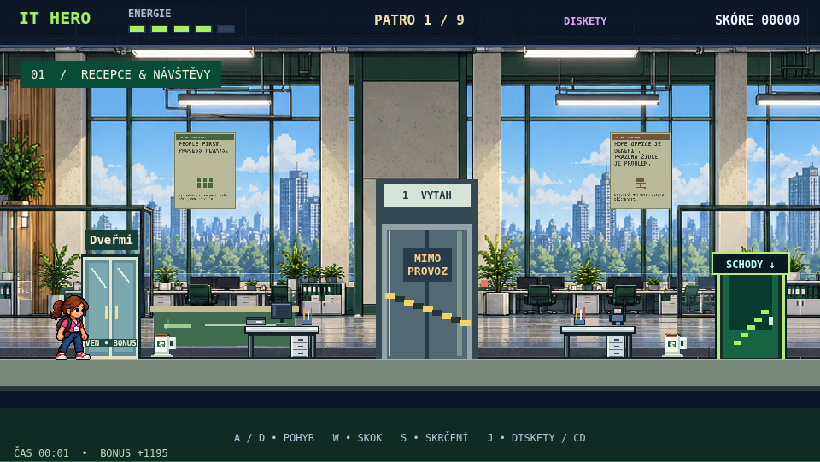
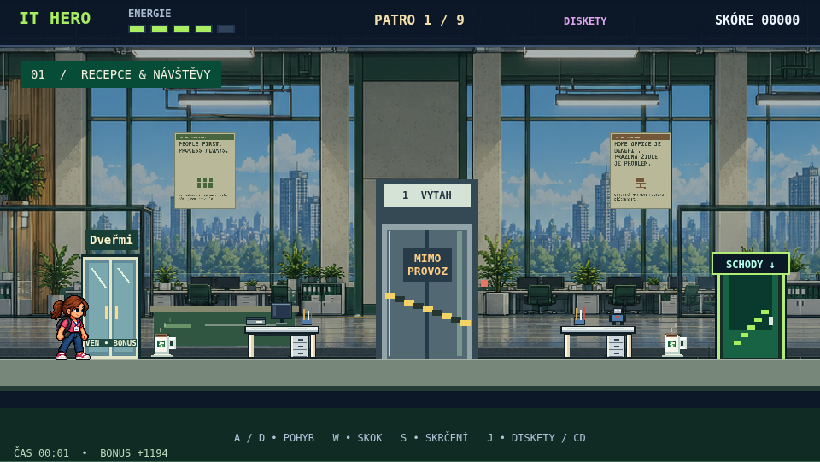
Apply approved desk variant C with cream legs and subdued office backgrounds

diff --git a/index.html b/index.html
@@ -5,39 +5,39 @@
   <meta name="viewport" content="width=device-width, initial-scale=1, viewport-fit=cover">
   <meta name="theme-color" content="#111a2a">
   <title>IT HERO | Save the world — but first, coffee</title>
-  <link rel="stylesheet" href="style.css?v=0.26.6">
+  <link rel="stylesheet" href="style.css?v=0.26.7">
   <script defer src="vendor/phaser.min.js"></script>
-  <script defer src="character-dialogue.js?v=0.26.6"></script>
-  <script defer src="dialogue-runtime.js?v=0.26.6"></script>
-  <script defer src="posters.js?v=0.26.6"></script>
-  <script defer src="item-textures.js?v=0.26.6"></script>
-  <script defer src="trio-attacks.js?v=0.26.6"></script>
-  <script defer src="player-character.js?v=0.26.6"></script>
-  <script defer src="appearance-mode.js?v=0.26.6"></script>
-  <script defer src="character-motion.js?v=0.26.6"></script>
-  <script defer src="enemy-catalog.js?v=0.26.6"></script>
-  <script defer src="dbpm.js?v=0.26.6"></script>
-  <script defer src="sap-integrator.js?v=0.26.6"></script>
-  <script defer src="it-colleague.js?v=0.26.6"></script>
-  <script defer src="gen-z-blockers.js?v=0.26.6"></script>
-  <script defer src="old-badger.js?v=0.26.6"></script>
-  <script defer src="touch-controls.js?v=0.26.6"></script>
-  <script defer src="difficulty.js?v=0.26.6"></script>
-  <script defer src="gameplay.js?v=0.26.6"></script>
+  <script defer src="character-dialogue.js?v=0.26.7"></script>
+  <script defer src="dialogue-runtime.js?v=0.26.7"></script>
+  <script defer src="posters.js?v=0.26.7"></script>
+  <script defer src="item-textures.js?v=0.26.7"></script>
+  <script defer src="trio-attacks.js?v=0.26.7"></script>
+  <script defer src="player-character.js?v=0.26.7"></script>
+  <script defer src="appearance-mode.js?v=0.26.7"></script>
+  <script defer src="character-motion.js?v=0.26.7"></script>
+  <script defer src="enemy-catalog.js?v=0.26.7"></script>
+  <script defer src="dbpm.js?v=0.26.7"></script>
+  <script defer src="sap-integrator.js?v=0.26.7"></script>
+  <script defer src="it-colleague.js?v=0.26.7"></script>
+  <script defer src="gen-z-blockers.js?v=0.26.7"></script>
+  <script defer src="old-badger.js?v=0.26.7"></script>
+  <script defer src="touch-controls.js?v=0.26.7"></script>
+  <script defer src="difficulty.js?v=0.26.7"></script>
+  <script defer src="gameplay.js?v=0.26.7"></script>
   <script defer src="community-config.js?v=cloud-9e7cbf2f4eb1"></script>
-  <script defer src="dialogue-community.js?v=0.26.6"></script>
-  <script defer src="play-stats.js?v=0.26.6"></script>
-  <script defer src="avatars.js?v=0.26.6"></script>
-  <script defer src="founders.js?v=0.26.6"></script>
-  <script defer src="menu-guests.js?v=0.26.6"></script>
-  <script defer src="score-table.js?v=0.26.6"></script>
-  <script defer src="ending-scene.js?v=0.26.6"></script>
-  <script defer src="secret-console.js?v=0.26.6"></script>
-  <script defer src="final-manager.js?v=0.26.6"></script>
-  <script defer src="lobby.js?v=0.26.6"></script>
-  <script defer src="outdoor-bonus.js?v=0.26.6"></script>
-  <script defer src="office-desks.js?v=0.26.6"></script>
-  <script defer src="game.js?v=0.26.6"></script>
+  <script defer src="dialogue-community.js?v=0.26.7"></script>
+  <script defer src="play-stats.js?v=0.26.7"></script>
+  <script defer src="avatars.js?v=0.26.7"></script>
+  <script defer src="founders.js?v=0.26.7"></script>
+  <script defer src="menu-guests.js?v=0.26.7"></script>
+  <script defer src="score-table.js?v=0.26.7"></script>
+  <script defer src="ending-scene.js?v=0.26.7"></script>
+  <script defer src="secret-console.js?v=0.26.7"></script>
+  <script defer src="final-manager.js?v=0.26.7"></script>
+  <script defer src="lobby.js?v=0.26.7"></script>
+  <script defer src="outdoor-bonus.js?v=0.26.7"></script>
+  <script defer src="office-desks.js?v=0.26.7"></script>
+  <script defer src="game.js?v=0.26.7"></script>
   <link rel="icon" type="image/png" sizes="32x32" href="assets/icons/favicon-32.png?v=1">
   <link rel="icon" href="favicon.ico?v=1" sizes="16x16 32x32 48x48">
   <link rel="apple-touch-icon" sizes="180x180" href="assets/icons/apple-touch-icon.png?v=1">
@@ -50,7 +50,7 @@
         <span class="eyebrow">PTG PIXEL OFFICE ARCADE</span>
         <h1>IT<span>HERO</span><small> / Save the world — but first, coffee</small></h1>
       </div>
-      <span class="version">BUILD 0.26.6</span>
+      <span class="version">BUILD 0.26.7</span>
     </header>
     <fieldset id="difficulty-choice" class="player-choice difficulty-choice"><legend>Obtížnost</legend><label><input type="radio" name="difficulty" value="normal" checked><span><strong>NORMAL</strong></span></label><label><input type="radio" name="difficulty" value="easy"><span><strong>EASY <small>(prokikoti)</small></strong></span></label></fieldset>
     <fieldset id="player-choice" class="player-choice">

diff --git a/office-desks.js b/office-desks.js
@@ -1,9 +1,11 @@
 /* Side-view furniture. Texture y=0 is the exact solid landing surface. */
 (()=>{'use strict';
  const palettes={
-  wood:{top:'#f5d49a',edge:'#c18a50',grain:'#e2b676',drawer:'#b9c5ca'},
+  wood:{top:'#ffdda0',edge:'#d99a54',grain:'#e2b676',drawer:'#ddd2b5'},
   modern:{top:'#edf2ed',edge:'#abbcc6',grain:'#d2dfdf',drawer:'#d0d9de'}
  };
+ const structure={metal:'#e4d6b6',highlight:'#fff7df',legWidth:5};
+ const background={color:0x142c29,alpha:.36,depth:-8.5};
  const items=['monitor','laptop','closed-laptop','keyboard','mouse','mug','papers','files','binders','pens','phone','mobile','lamp','plant','cactus','apple','banana','water','lunch','car','dinosaur','robot','hero-figure','controller','spaceship'];
  const themes=[
   {wood:.15,favorites:['monitor','phone','plant','pens']},
@@ -48,14 +50,14 @@
   "office-item-spaceship": "assets/office-desks/office-item-spaceship.png",
   "office-item-water": "assets/office-desks/office-item-water.png"
 };
- function preload(scene){for(const [key,url] of Object.entries(textureSources))scene.load.image(key,url);}
+ function preload(scene){for(const [key,url] of Object.entries(textureSources))scene.load.image(key,url+'?v=0.26.7');}
  function createDeskTextures(scene){
   for(const [type,p] of Object.entries(palettes))canvas(scene,'office-desk-'+type,88,38,(c,r)=>{
-   const ink='#111f25',metal='#3f515c';
+   const ink='#111f25',metal=structure.metal;
    r(ink,0,0,88,9);r(p.top,2,1,84,3);r(p.edge,2,4,84,3);r(p.grain,8,2,22,1);r(p.grain,51,2,24,1);
    r('#17272c',5,9,78,3); // underside shadow, inside the solid silhouette
-   r(ink,4,9,7,29);r(metal,6,12,3,24);r('#7d9098',6,12,1,24);
-   r(ink,77,9,7,29);r(metal,79,12,3,24);r('#7d9098',79,12,1,24);
+   r(ink,4,9,7,29);r(metal,6,10,structure.legWidth,26);r(structure.highlight,6,10,2,26);
+   r(ink,77,9,7,29);r(metal,78,10,structure.legWidth,26);r(structure.highlight,78,10,2,26);
    r(ink,53,11,23,27);r(p.drawer,55,12,19,24);r('#eef2e5',55,12,2,23);
    for(let y=19;y<36;y+=8){r('#61717b',57,y,16,1);r('#364650',63,y-4,6,2);}
    r('#14252a',11,35,42,3);r('#33474c',11,35,40,1);
@@ -101,6 +103,7 @@
   const slot=desk.displayWidth/list.length;
   return list.map((id,i)=>{const texture='office-item-'+id,w=Math.min(28,slot-2),image=scene.add.image(desk.x-desk.displayWidth/2+slot*(i+.5),desk.body.top-1,texture).setOrigin(.5,1).setDisplaySize(w,30*w/28).setDepth(depth.decorations);image.setData('deskItem',id);return image;});
  }
+ function shadeBackdrop(scene,ground,width){return scene.add.rectangle(width/2,ground-207,width,414,background.color,background.alpha).setDepth(background.depth).setData('officeBackdrop',true);}
  function createDesk(scene,config){
   createDeskTextures(scene);
   const random=config.random||Math.random,type=config.type||(random()<(themes[config.floor||0]||themes[0]).wood?'wood':'modern');
@@ -115,5 +118,5 @@
   const random=options.random||seeded(options.seed??Math.random());
   return floorPlans.flatMap((plan,floor)=>plan.desks.map(x=>createDesk(scene,{x,ground:floors[floor],floor,random})));
  }
- window.ITHeroOfficeDesks={palettes,items,themes,dimensions,depth,seeded,preload,createDeskTextures,createDesk,generateDeskDecorations,placeDesks};
+ window.ITHeroOfficeDesks={palettes,structure,background,shadeBackdrop,items,themes,dimensions,depth,seeded,preload,createDeskTextures,createDesk,generateDeskDecorations,placeDesks};
 })();

diff --git a/character-preview.html b/character-preview.html
@@ -4,27 +4,27 @@
   <meta charset="utf-8">
   <meta name="viewport" content="width=device-width, initial-scale=1">
   <title>IT HERO – porovnání postav</title>
-  <link rel="stylesheet" href="style.css?v=0.26.6">
+  <link rel="stylesheet" href="style.css?v=0.26.7">
   <script defer src="vendor/phaser.min.js"></script>
-  <script defer src="character-dialogue.js?v=0.26.6"></script>
-  <script defer src="dialogue-runtime.js?v=0.26.6"></script>
-  <script defer src="item-textures.js?v=0.26.6"></script>
-  <script defer src="trio-attacks.js?v=0.26.6"></script>
-  <script defer src="player-character.js?v=0.26.6"></script>
-  <script defer src="appearance-mode.js?v=0.26.6"></script>
-  <script defer src="character-motion.js?v=0.26.6"></script>
-  <script defer src="enemy-catalog.js?v=0.26.6"></script>
-  <script defer src="dbpm.js?v=0.26.6"></script>
-  <script defer src="sap-integrator.js?v=0.26.6"></script>
-  <script defer src="final-manager.js?v=0.26.6"></script>
-  <script defer src="it-colleague.js?v=0.26.6"></script>
-  <script defer src="gen-z-blockers.js?v=0.26.6"></script>
-  <script defer src="old-badger.js?v=0.26.6"></script>
-  <script defer src="dialogue-gallery.js?v=0.26.6"></script>
-  <script defer src="character-dialogue-view.js?v=0.26.6"></script>
-  <script defer src="outdoor-bonus.js?v=0.26.6"></script>
-  <script defer src="founders.js?v=0.26.6"></script>
-  <script defer src="character-preview.js?v=0.26.6"></script>
+  <script defer src="character-dialogue.js?v=0.26.7"></script>
+  <script defer src="dialogue-runtime.js?v=0.26.7"></script>
+  <script defer src="item-textures.js?v=0.26.7"></script>
+  <script defer src="trio-attacks.js?v=0.26.7"></script>
+  <script defer src="player-character.js?v=0.26.7"></script>
+  <script defer src="appearance-mode.js?v=0.26.7"></script>
+  <script defer src="character-motion.js?v=0.26.7"></script>
+  <script defer src="enemy-catalog.js?v=0.26.7"></script>
+  <script defer src="dbpm.js?v=0.26.7"></script>
+  <script defer src="sap-integrator.js?v=0.26.7"></script>
+  <script defer src="final-manager.js?v=0.26.7"></script>
+  <script defer src="it-colleague.js?v=0.26.7"></script>
+  <script defer src="gen-z-blockers.js?v=0.26.7"></script>
+  <script defer src="old-badger.js?v=0.26.7"></script>
+  <script defer src="dialogue-gallery.js?v=0.26.7"></script>
+  <script defer src="character-dialogue-view.js?v=0.26.7"></script>
+  <script defer src="outdoor-bonus.js?v=0.26.7"></script>
+  <script defer src="founders.js?v=0.26.7"></script>
+  <script defer src="character-preview.js?v=0.26.7"></script>
   <link rel="icon" type="image/png" sizes="32x32" href="assets/icons/favicon-32.png?v=1">
   <link rel="icon" href="favicon.ico?v=1" sizes="16x16 32x32 48x48">
   <link rel="apple-touch-icon" sizes="180x180" href="assets/icons/apple-touch-icon.png?v=1">
@@ -34,7 +34,7 @@
   <main class="layout">
     <header class="heading">
       <h1>Porovnání postav</h1>
-      <span class="version">BUILD 0.26.6</span>
+      <span class="version">BUILD 0.26.7</span>
     </header>
     <p>Všech 25 podob postav a zvířat ze hry ve skutečných herních proporcích. Každá řada má společnou podlahu.</p>
     <p><a href="#dialogue-heading">Přejít na hlášky postav a úpravy návrhů ↓</a></p>

diff --git a/game.js b/game.js
@@ -229,6 +229,7 @@
         r(0xb3a66b,650,-148,110,72);r(0x275d45,654,-144,102,64);
         this.add.text(705,y-112,'POSLEDNÍ\nZÁLOHA',{font:'bold 12px monospace',align:'center',color:'#e9ddb7'}).setOrigin(0.5).setDepth(-8);
       }
+      ITHeroOfficeDesks.shadeBackdrop(this, y, WIDTH);
       return plan;
     }
 

diff --git a/docs/office-desks/README.md b/docs/office-desks/README.md
@@ -4,6 +4,8 @@ Větev `feature/office-desks-redesign`. Návrh není určen k automatickému slo
 
 ## Grafika a fyzika
 
+Schválená varianta **C**: krémové kovové nohy široké 5 pixelů se světlou hranou, výraznější medová deska a světlé zásuvky dřevěné varianty. Pozadí všech devíti kanceláří je utlumené vrstvou s průhledností 0,36; dveře, postavy, stoly ani rozhraní nejsou touto vrstvou ovlivněny.
+
 Dva sdílené typy: medově dřevěný (výchozí pro odbory, management a vedení) a světlý moderní (zejména recepce a HR). Oba mají tmavý obrys, světlou silnou desku, stín, kovové nohy a zásuvkový kontejner. Boční perspektiva, průhledné pozadí, ostré pixely.
 
 Původních 18 pevných těles na devíti patrech zůstává širokých 88 a vysokých 38 herních pixelů na stejných souřadnicích. Původní deska přesahovala těleso do stran a ležela 8,5 pixelu nad ním. Nový vrchol textury je přesně `ground - 38`, shodný s `body.top`; šířka textury odpovídá kolizi. Nemění se rychlosti, skok ani algoritmus překonávání překážek Byznysáka.
@@ -21,6 +23,8 @@ Každý stůl má 2–5 různých položek; monitor a otevřený notebook se nev
 `office-desks.js` obsahuje:
 
 - `palettes`: barvy desky, její čelní hrany, kresby a zásuvek pro oba typy.
+- `structure`: barva kovových nohou, světlé hrany a šířka nohou.
+- `background`: barva, průhlednost a hloubka vrstvy tlumící kanceláře; `shadeBackdrop(scene, ground, width)` ji vytvoří za herními objekty.
 - `themes`: devět řádků v pořadí skutečných pater. `wood` je pravděpodobnost dřevěné varianty 0–1; `favorites` jsou preferované položky. Preferovaná skupina se při každém výběru použije s pravděpodobností 0,72, je-li dostupná. Zbývající výběr čerpá ze všech zbývajících položek.
 - `dimensions`, `depth`: výchozí rozměry a vrstvy. Rozměry neměnit bez opětovného fyzikálního ověření.
 - `preload(scene)`: načte 27 samostatných průhledných PNG z `assets/office-desks/`.
@@ -49,11 +53,11 @@ Srovnání zachycuje stejnou scénu, stejného hrdinu na stejném místě, stejn
 
 ### Výsledky ověření této větve
 
-- `node tests/office-desks.cjs`: PASS, všech 36 skutečných skoků a seskoků, geometrie i viditelná chodidla, devět pater, obě varianty, různorodé dekorace, seed/restart, mobilní rozměr 844×390, žádné chyby JavaScriptu.
+- `node tests/office-desks.cjs`: PASS, všech 36 skutečných skoků a seskoků, geometrie i viditelná chodidla, devět pater, obě varianty, různorodé dekorace, seed/restart, mobilní rozměr 844×390, žádné chyby JavaScriptu. Kontroluje také světlé nohy v načtených PNG a devět vrstev utlumeného pozadí.
 - `node tests/dbpm.cjs`: PASS, překonávání obou stolů v obou směrech, útoky na blízko/na dálku, DEMAND, životní cyklus a úklid kolizí.
 - `node tests/trio-collisions.cjs`: PASS, skutečné zásahy Security mastera, HR a design manažera disketou/CD, porážka a skóre.
 - `node tests/public-copy.mjs`: PASS, všech 27 PNG zahrnuto, hra i galerie funkční v sestavené veřejné kopii; žádné externí požadavky, funkční API a moderace.
-- Výkon: stejný headless Chromium, viewport 844×390, stejné místo, vypnutí nepřátelé a návštěvy, zahřátí 1 s a 120 snímků. Původní verze: medián 33,3 ms, p95 50,1 ms. Nová: medián 33,3 ms, p95 50,0 ms. V tomto prostředí není patrný rozdíl; nejde o měření na skutečném telefonu a výkon závisí na zařízení.
+- Výkon: stejný headless Chromium, viewport 844×390, stejné místo, vypnutí nepřátelé a návštěvy, zahřátí 1 s a 120 snímků. Původní verze: medián 49,9 ms, p95 66,6 ms. Schválená varianta C: medián 50,0 ms, p95 66,7 ms. V tomto prostředí není patrný rozdíl; nejde o měření na skutečném telefonu a výkon závisí na zařízení.
 - `git diff --check` a syntaktická kontrola JS: PASS.
 
 ![Mobilní herní plátno](mobile.png)

diff --git a/docs/office-desks/proposals/README.md b/docs/office-desks/proposals/README.md
@@ -1,6 +1,6 @@
 # Varianty pro porovnání čitelnosti
 
-Pouze návrhy k výběru, nikoli vybraná výsledná úprava hry. Snímky skutečného Phaseru, stejný seed dekorací, místo hráče a viewport. Vlevo dřevěná, vpravo moderní varianta.
+Porovnání návrhů. Uživatel následně schválil variantu C; ta je nyní zapracovaná ve větvi a v pull requestu. Snímky skutečného Phaseru, stejný seed dekorací, místo hráče a viewport. Vlevo dřevěná, vpravo moderní varianta.
 
 - A: širší hliníkové nohy se světlou hranou; původní pozadí.
 - B: bílé nohy a světlejší zásuvky moderního stolu; pozadí kanceláře utlumeno o 20 %.
